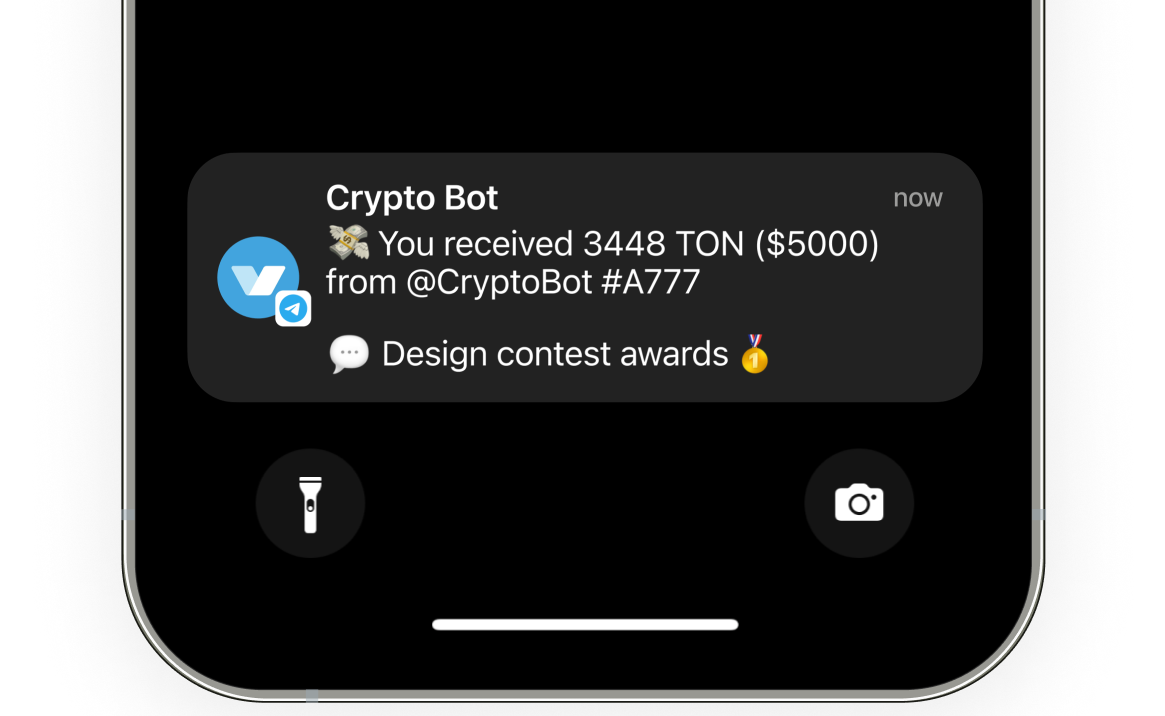
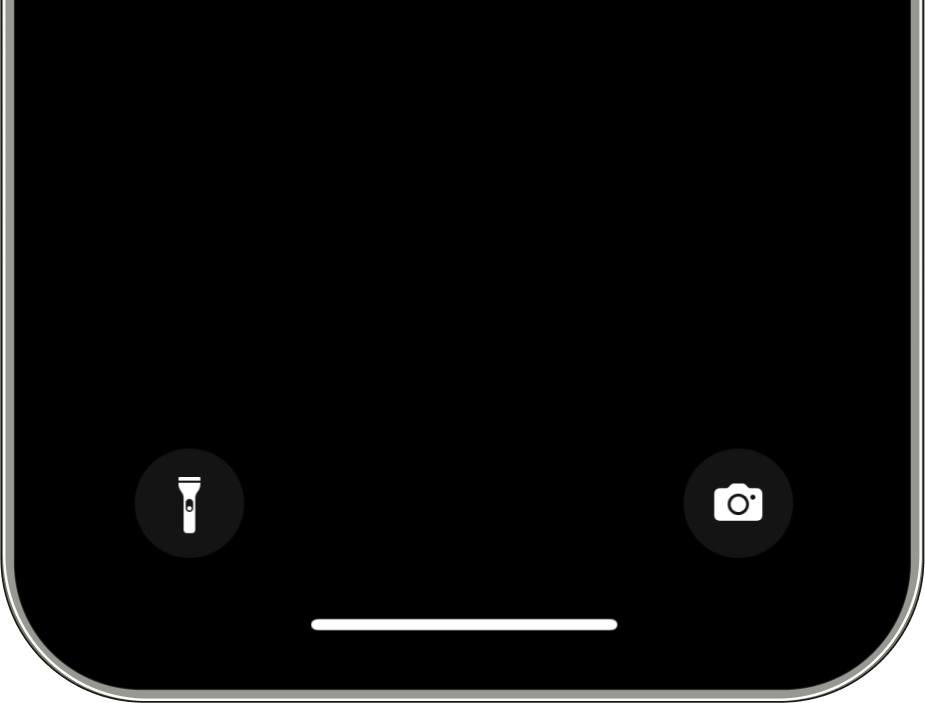
feat: update dark theme styles for verification component

diff --git a/crypto-pay/components/Features/Verification/Verification.jsx b/crypto-pay/components/Features/Verification/Verification.jsx
@@ -1,7 +1,7 @@
 import styles from './verification.module.css';
 import phoneHalfBody from '/public/images/verification/phone-half-body.png';
 import phoneHalfBodyDark from '/public/images/verification/half-phone-dark.png';
-import { verificationData } from './verificationData';
+import { verificationData, verificationDataDark } from './verificationData';
 import Image from 'next/image';
 import Link from 'next/link';
 
@@ -21,14 +21,24 @@ export const Verification = ({ darkTheme }) => {
         />
         <Image
           className={styles['message-image']}
-          src={verificationData[0].src}
+          src={
+            darkTheme ? verificationDataDark[0].src : verificationData[0].src
+          }
           width={400}
           height={125}
           alt="message example"
         />
         <Image
-          className={styles['message-shadow-image']}
-          src={verificationData[0].srcBlur}
+          className={
+            darkTheme
+              ? styles['message-shadow-image-dark']
+              : styles['message-shadow-image']
+          }
+          src={
+            darkTheme
+              ? verificationDataDark[0].srcBlur
+              : verificationData[0].srcBlur
+          }
           width={370}
           height={125}
           alt="message example"

diff --git a/crypto-pay/components/Features/Verification/verificationData.js b/crypto-pay/components/Features/Verification/verificationData.js
@@ -15,3 +15,21 @@ export const verificationData = [
     alt: 'third message',
   },
 ];
+
+export const verificationDataDark = [
+  {
+    src: '/images/verification/msg0-dark.png',
+    srcBlur: '/images/verification/msg0-dark-blur.png',
+    alt: 'first message',
+  },
+  {
+    src: '/images/verification/msg1-dark.png',
+    srcBlur: '/images/verification/msg1-dark-blur.png',
+    alt: 'second message',
+  },
+  {
+    src: '/images/verification/msg2-dark.png',
+    srcBlur: '/images/verification/msg2-dark-blur.png',
+    alt: 'third message',
+  },
+];

diff --git a/crypto-pay/components/Features/Verification/verification.module.css b/crypto-pay/components/Features/Verification/verification.module.css
@@ -44,6 +44,12 @@
   z-index: 1;
 }
 
+.message-shadow-image-dark {
+  position: absolute;
+  top: 47px;
+  z-index: 1;
+}
+
 .dark-white {
   background-color: var(--background-dark);
   color: var(--white);
